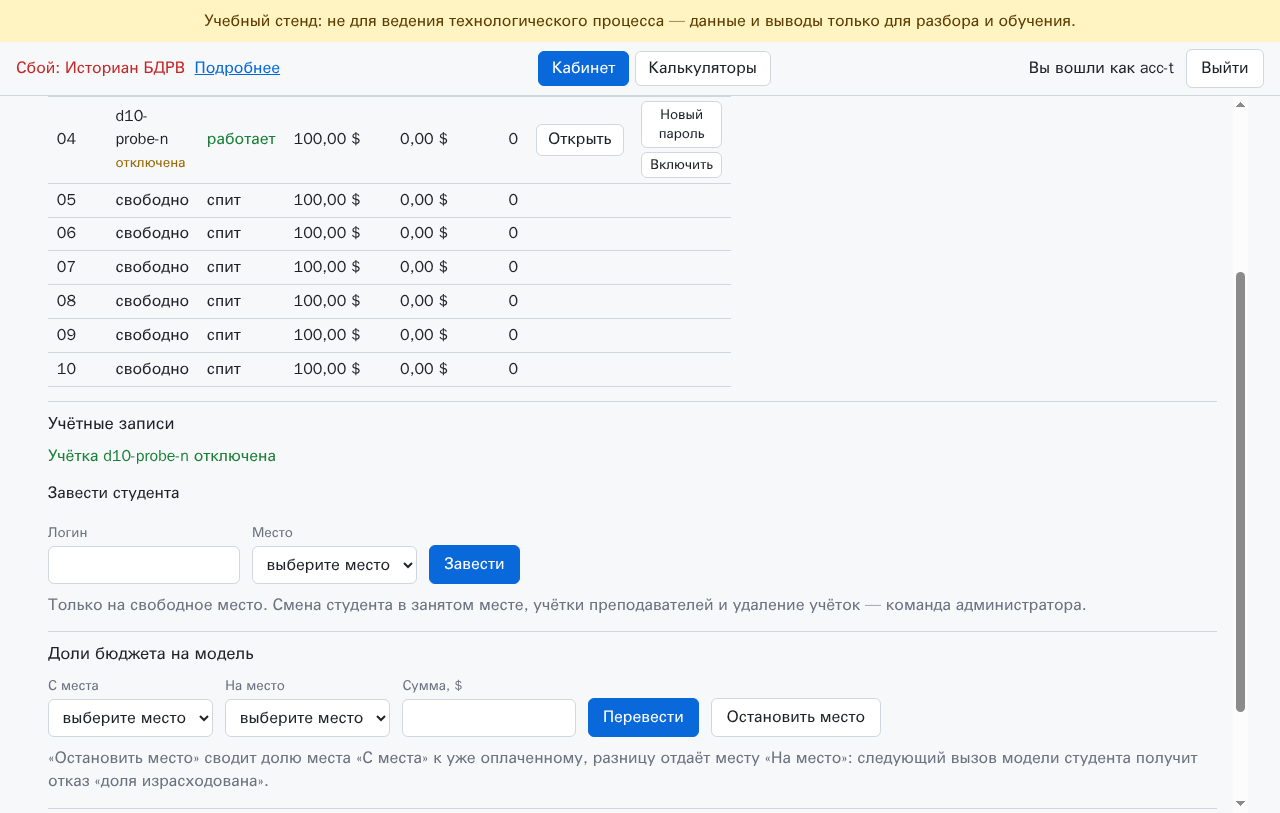
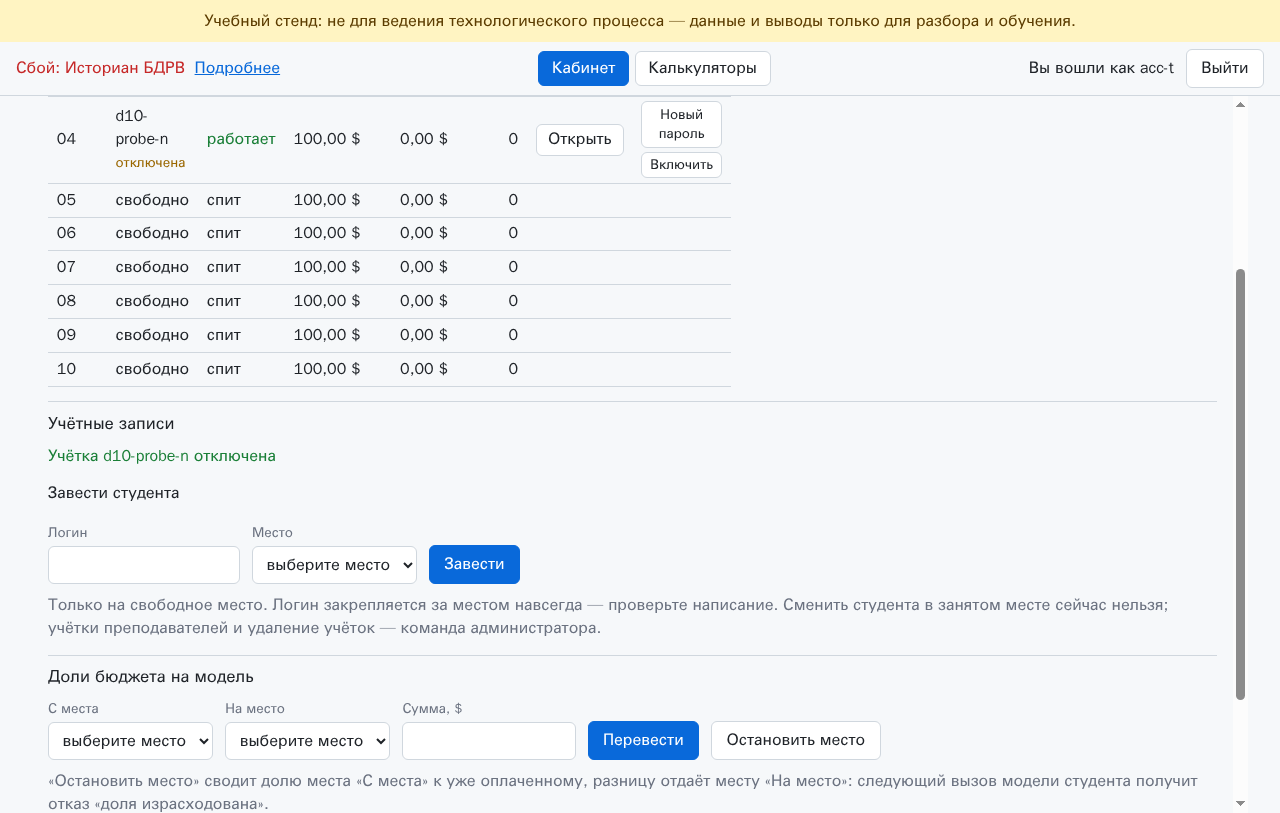
Д10б: снимок учёток из полного прогона итоговой доводки — честная подсказка формы; журнал проверок

Changed region(s): [[0.0312, 0.738, 0.9375, 1.0], [0.3125, 0.8303, 0.375, 0.8918]]

diff --git a/docs/checks/D10b.md b/docs/checks/D10b.md
@@ -129,8 +129,9 @@ Chrome, **не сервер**; ни денег OpenRouter, ни историан
   после закрытия окна пароля: строка 04 «d10-probe-n · отключена ·
   работает» с «Новый пароль» и «Включить», итог «Учётка d10-probe-n
   отключена», форма «Завести студента», доли. Просмотрен глазами: пароля,
-  тегов и значений нет, логины — только тестовые. Подсказка формы на снимке
-  — прежний текст, до правки m-2 итоговой доводки. [Л]
+  тегов и значений нет, логины — только тестовые. Снимок — из полного прогона
+  итоговой доводки (`b2e7431`): подсказка формы — честный текст m-2 («сменить
+  студента в занятом месте сейчас нельзя»). [Л]
 - **Прогоны** (под общим замком, копии `git archive`): красный шаг — «fixture
   'accounts_t' not found» (код Б1 и Б2 уже был в базе, итоговое ревью m-7);
   первый зелёный — 1 failed, 19 passed: чат отключённого студента без
@@ -204,7 +205,8 @@ README.
   красный `test_teacher_creates_and_disables_student` на шаге «чат уходит на
   вход». Снимки `d10a-02` и `d10b-01` этого прогона просмотрены: колонка
   «Учётная запись» таблицу под панель места не уводит (панель около 425 px
-  при окне 1280), пароля нет; в git — прежние снимки. [Л]
+  при окне 1280), пароля нет; в git заменён `d10b-01` (новая подсказка формы),
+  `d10a-02` оставлен из прогона Д10а — его описание в `D10a.md`. [Л]
 
 ## Сервер — окно Б4
 
